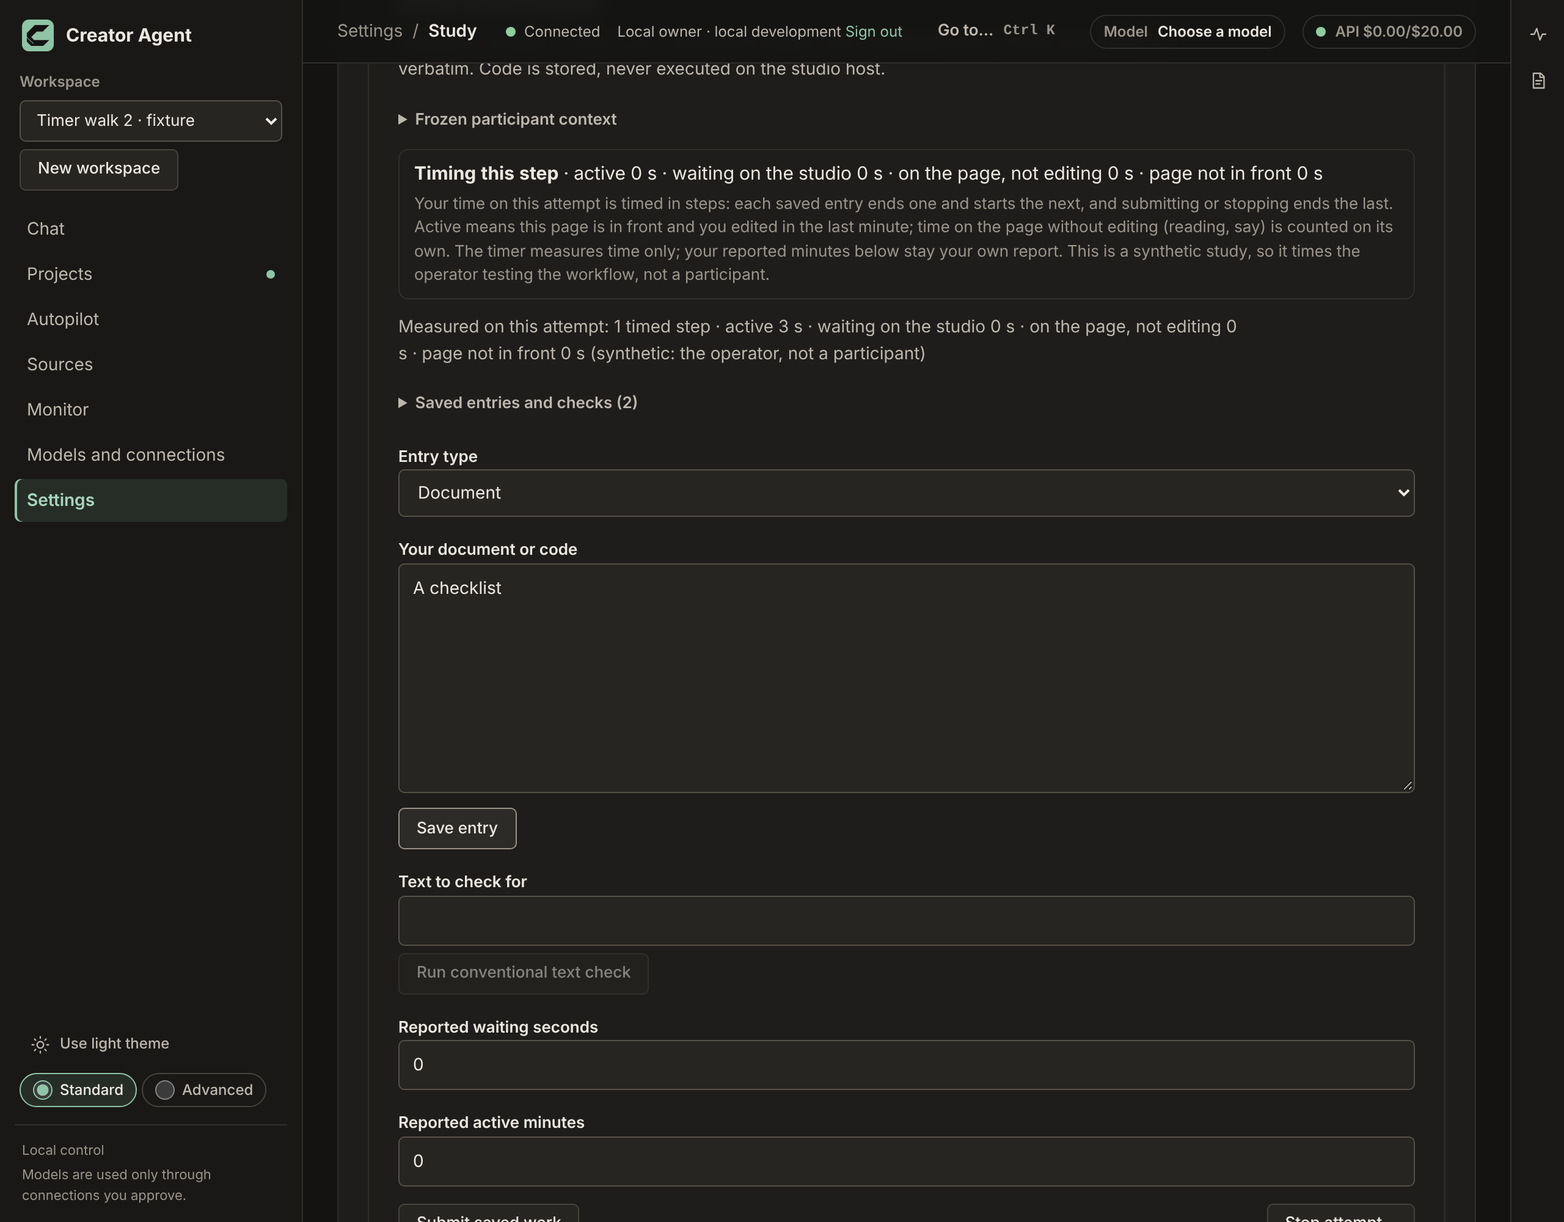
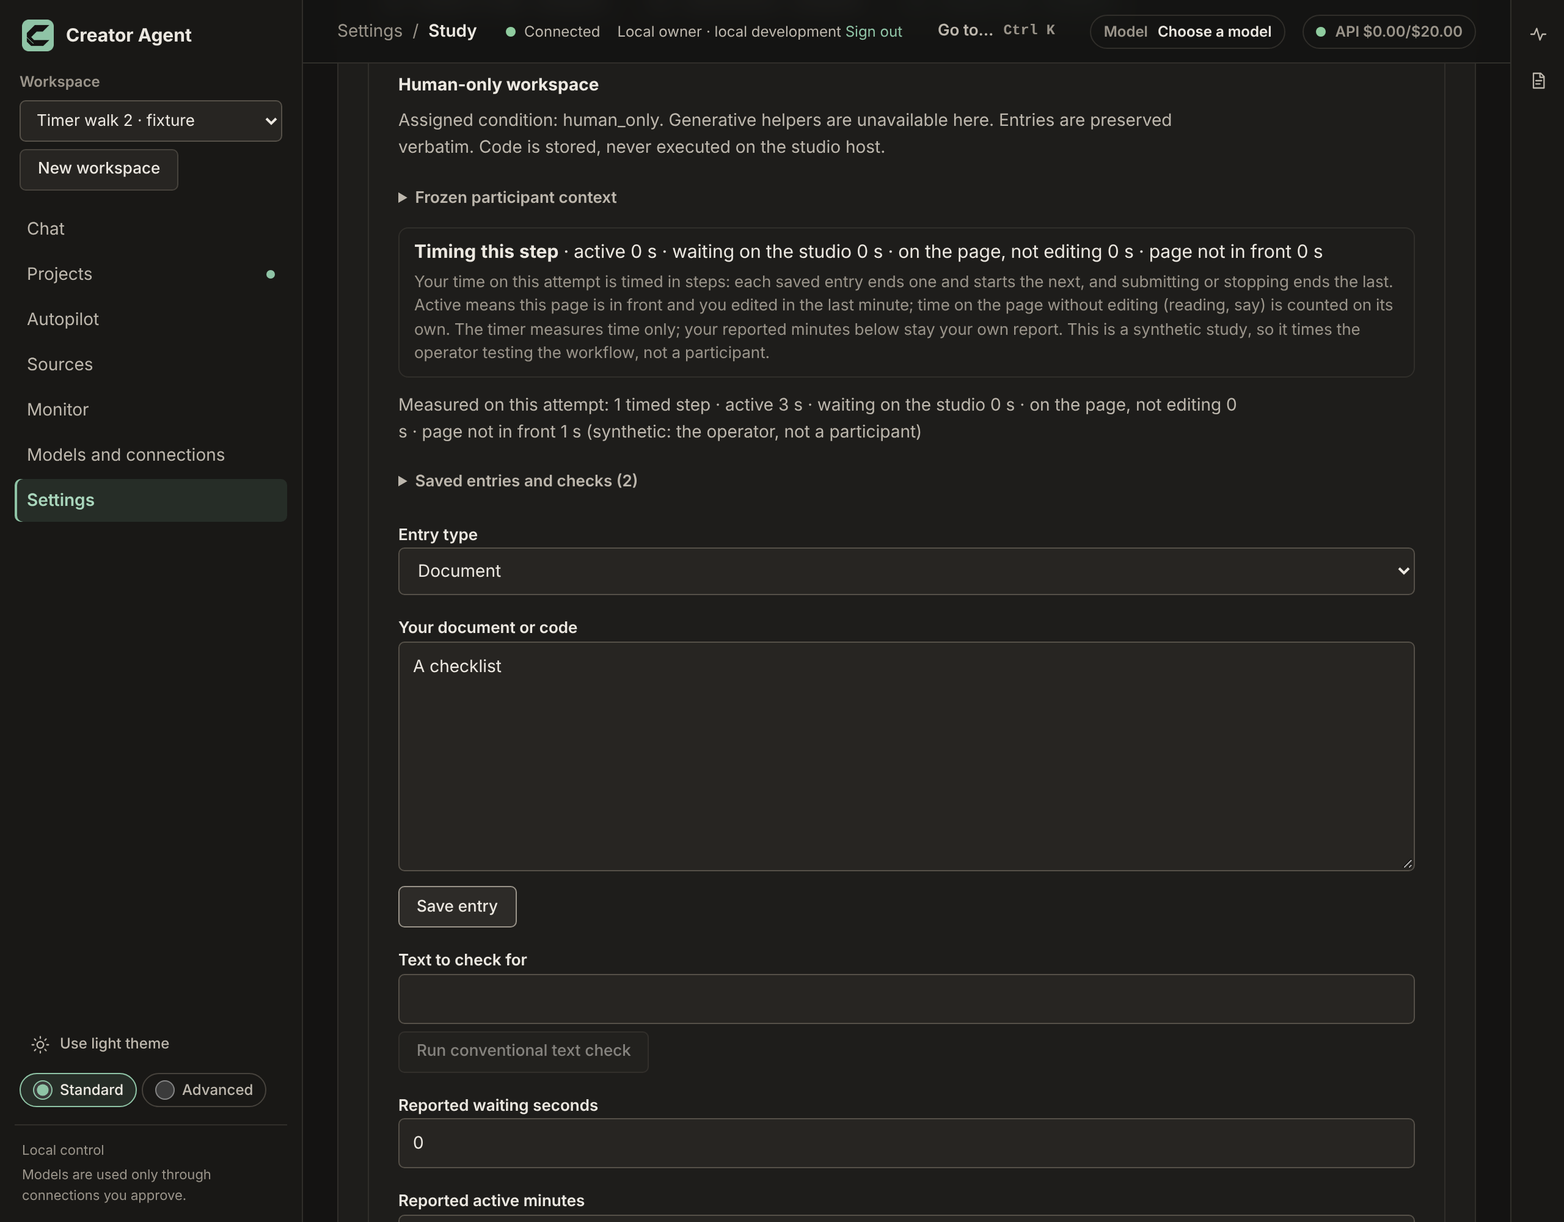
Fix re-review of #234: keep each attempt's clock while the page is open
M-3: leaving an attempt parks its step and clock (the detour counts as page not
in front) and coming back resumes it, so nothing measured is lost; after a reload
a new step starts and the old one stays unfinished (complete: false). Walk 14/14.
N-5, N-6: test count and analysis-plan/1 wording.

Claude-Session: https://claude.ai/code/session_01JTbuZrduuhJcZ3G7X4bkoA

diff --git a/apps/web/src/study.tsx b/apps/web/src/study.tsx
@@ -69,6 +69,11 @@ export function Studies({
   const [starting, setStarting] = useState(false);
   const [effortSteps, setEffortSteps] = useState<StudyEffortStep[]>([]);
   const clock = useRef<EffortClock | null>(null);
+  // Review M-3: steps of attempts the person left while the page stayed open, with their clocks
+  // still running (the time away counts as "page not in front"), by attempt id.
+  const parked = useRef(
+    new Map<string, { step: StudyEffortStep; clock: EffortClock }>(),
+  );
   const attemptPanel = useRef<HTMLDivElement | null>(null);
   const [, setTick] = useState(0);
   const timing = step !== null;
@@ -111,6 +116,11 @@ export function Studies({
   useEffect(() => {
     setSelected('');
     picked.current = false;
+    // Another workspace's attempts are not timed here; their open steps stay unfinished.
+    parked.current.clear();
+    clock.current = null;
+    stepRef.current = null;
+    setStep(null);
     setAttempt(null);
     setAttempts([]);
     setContext(null);
@@ -150,6 +160,19 @@ export function Studies({
     }
   }
   function stopTiming() {
+    if (stepRef.current) parked.current.delete(stepRef.current.attempt_id);
+    clock.current = null;
+    stepRef.current = null;
+    setStep(null);
+  }
+  /** Leaves the running step for another attempt or study; its clock keeps counting, as away. */
+  function parkTiming() {
+    const s = stepRef.current;
+    const c = clock.current;
+    if (s && c) {
+      c.visibility(performance.now(), false);
+      parked.current.set(s.attempt_id, { step: s, clock: c });
+    }
     clock.current = null;
     stepRef.current = null;
     setStep(null);
@@ -252,7 +275,7 @@ export function Studies({
   }
   async function openStudy(id: string) {
     setSelected(id);
-    stopTiming();
+    parkTiming();
     setAttempt(null);
     setContext(null);
     if (!id) {
@@ -266,7 +289,7 @@ export function Studies({
     // Review M-2: a second click on the attempt being timed keeps its step running.
     const same = stepRef.current?.attempt_id === a.id;
     if (!same) {
-      stopTiming();
+      parkTiming();
       setEffortSteps([]);
     }
     setEntries(
@@ -279,17 +302,27 @@ export function Studies({
     setContext(
       await api(z.unknown(), `${base}/study-attempts/${a.id}/context`),
     );
-    const steps = a.condition !== 'autonomous' ? await loadEffort(a.id) : [];
-    // ADR-0129: opening the attempt times it. Coming back to it (from another attempt or after
-    // a reload) continues its open step rather than leaving it unfinished. If a new step can't
-    // start (past the time cap, say), the readout says the timer is not running and offers Start.
+    if (a.condition !== 'autonomous') await loadEffort(a.id);
+    // ADR-0129: opening the attempt times it. Coming back to it while the page stayed open
+    // resumes its kept clock, so nothing measured is lost. After a reload there is no clock, so a
+    // new step starts and the old one stays unfinished. If a new step can't start (past the
+    // time cap, say), the readout says the timer is not running and offers Start.
     const plan = stepOnOpen({
       timed: timedFor(a),
       running: stepRef.current,
       attemptId: a.id,
-      steps,
+      parked: parked.current.has(a.id),
     });
-    if (plan.kind === 'continue') runStep(plan.step as StudyEffortStep);
+    const kept = parked.current.get(a.id);
+    if (plan.kind === 'resume' && kept) {
+      parked.current.delete(a.id);
+      const now = performance.now();
+      kept.clock.visibility(now, document.visibilityState === 'visible');
+      kept.clock.focus(now, document.hasFocus());
+      clock.current = kept.clock;
+      stepRef.current = kept.step;
+      setStep(kept.step);
+    }
     if (plan.kind === 'start') await startStep(a).catch(() => undefined);
   }
   async function write(action: string, body: unknown) {

diff --git a/tests/src/study-effort.test.ts b/tests/src/study-effort.test.ts
@@ -43,13 +43,8 @@ type TimerModule = {
     timed: boolean;
     running: { attempt_id: string } | null;
     attemptId: string;
-    steps: {
-      id: string;
-      attempt_id: string;
-      step: string;
-      measured: unknown;
-    }[];
-  }): { kind: string; step?: { id: string } };
+    parked: boolean;
+  }): { kind: string };
 };
 
 test('effort clock: active needs a visible, focused page and a recent edit; waiting needs a request in flight', async () => {
@@ -670,42 +665,37 @@ test('ADR-0129 review: the page keeps the step on a record refusal and keeps or 
     ),
     'stop',
   );
-  // M-2: opening the attempt being timed keeps its step; coming back continues the newest open
-  // attempt step; otherwise a new step starts; nobody else is timed.
-  const step = (id: string, over: Record<string, unknown> = {}) => ({
-    id,
-    attempt_id: 'att',
-    step: 'attempt',
-    measured: null,
-    ...over,
-  });
+  // M-2, M-3: opening the attempt being timed keeps its step; coming back to one the page left
+  // resumes its kept clock; after a reload (no kept clock) a new step starts; nobody else is
+  // timed.
   const open = (o: Partial<Parameters<TimerModule['stepOnOpen']>[0]>) =>
     stepOnOpen({
       timed: true,
       running: null,
       attemptId: 'att',
-      steps: [],
+      parked: false,
       ...o,
-    });
-  assert.equal(open({ timed: false }).kind, 'none');
-  assert.equal(open({}).kind, 'start');
+    }).kind;
+  assert.equal(open({ timed: false, parked: true }), 'none');
+  assert.equal(open({}), 'start');
+  assert.equal(open({ running: { attempt_id: 'att' } }), 'keep');
   assert.equal(
-    open({ running: { attempt_id: 'att' }, steps: [step('s1')] }).kind,
-    'keep',
+    open({ running: { attempt_id: 'other' }, parked: true }),
+    'resume',
   );
-  const back = open({
-    running: { attempt_id: 'other' },
-    steps: [step('s0', { measured: {} }), step('s1')],
+  assert.equal(open({ running: { attempt_id: 'other' } }), 'start');
+  // M-3: a clock kept while the person was on another attempt counts that time as away, so the
+  // step's totals still cover all of it.
+  const { EffortClock } = (await loadWeb('effort-timer.ts')) as TimerModule;
+  const kept = new EffortClock(0, { visible: true, focused: true }, 60_000);
+  kept.edited(0);
+  kept.visibility(6_000, false); // left for another attempt after 6 s of typing
+  kept.visibility(10_000, true); // came back
+  const t = kept.totals(12_000);
+  assert.deepEqual(t, {
+    active_ms: 8_000,
+    wait_ms: 0,
+    idle_ms: 0,
+    away_ms: 4_000,
   });
-  assert.equal(back.kind, 'continue');
-  assert.equal(back.step?.id, 's1');
-  // The newest step ended, or was started at the intervention form under ADR-0122: start anew.
-  assert.equal(
-    open({ steps: [step('s1'), step('s2', { measured: {} })] }).kind,
-    'start',
-  );
-  assert.equal(
-    open({ steps: [step('s1', { step: 'intervention' })] }).kind,
-    'start',
-  );
 });

diff --git a/apps/web/src/effort-timer.ts b/apps/web/src/effort-timer.ts
@@ -109,35 +109,22 @@ export function afterRefusal(
   return errorText.includes(marker) ? 'stop' : 'keep';
 }
 
-type OpenStep = {
-  id: string;
-  attempt_id: string;
-  step: string;
-  measured: unknown;
-};
 /**
- * ADR-0129 review M-2: what opening an attempt does to the step timer.
+ * ADR-0129 reviews M-2 and M-3: what opening an attempt does to the step timer.
  * - keep: this attempt's step is already running on the page (a second click on it);
- * - continue: the attempt's newest step was started on the attempt and never ended (the person
- *   came back from another attempt or reloaded), so it carries on instead of being left open;
- * - start: a new step;
+ * - resume: the page timed this attempt earlier and left it for another one; its clock was kept
+ *   and counted the time away as "page not in front", so nothing measured is lost;
+ * - start: a new step (after a reload the page has no clock for an open step, which then stays
+ *   unfinished, so the attempt honestly reads `complete: false`);
  * - none: the person is not timed here.
  */
 export function stepOnOpen(s: {
   timed: boolean;
   running: { attempt_id: string } | null;
   attemptId: string;
-  steps: readonly OpenStep[];
-}): { kind: 'keep' | 'start' | 'none' } | { kind: 'continue'; step: OpenStep } {
+  parked: boolean;
+}): { kind: 'keep' | 'resume' | 'start' | 'none' } {
   if (!s.timed) return { kind: 'none' };
   if (s.running?.attempt_id === s.attemptId) return { kind: 'keep' };
-  const newest = s.steps.at(-1);
-  if (
-    newest &&
-    newest.attempt_id === s.attemptId &&
-    newest.step === 'attempt' &&
-    newest.measured === null
-  )
-    return { kind: 'continue', step: newest };
-  return { kind: 'start' };
+  return { kind: s.parked ? 'resume' : 'start' };
 }

diff --git a/tracking/DECISIONS.md b/tracking/DECISIONS.md
@@ -11,9 +11,9 @@ Follow-ups to ADR-0122 (F13), whose "Not covered" named both: human-only and fin
 - **Analysis** (`analysis/2`, see the amendment). `human_effort_and_latency` gains, per group, `measured_active_minutes`, `measured_studio_wait_seconds`, `measured_on_page_not_editing_minutes`, `measured_page_not_in_front_minutes`, `measured_steps`, `measured_unfinished_steps`, `measured_complete_attempts`, `measured_untimed_attempts` and `measured_subject` (`assigned_participant`, `synthetic_operator_not_participant`, `mixed` or null), read from the raw exports by attempt id. The reported columns are unchanged and never replaced; nothing is imputed for an untimed attempt; older exports (no `measured_effort`, or no `ended_by`) read as before. `ANALYSIS_PLAN.measured_effort` states the rule; like the rest of the plan it is an implementation default for the protocol freeze, not an owner decision.
 - **Nothing about the person.** The timer still records times only; no participant, IRB, consent or model detail is added or inferred, and a synthetic study's times stay labelled as the operator's.
 
-Not covered: time spent on the attempt outside the Study page (another app, paper) is not measured; a modified browser could still under-report within the server time; an older open step that a newer one replaced (two tabs, say) stays unfinished, and the attempt then reads `complete: false`.
+Not covered: time spent on the attempt outside the Study page (another app, paper) is not measured; a modified browser could still under-report within the server time; a step left open by a reload, a workspace change or a second tab stays unfinished, and the attempt then reads `complete: false`.
 
-**Amendment (November 17, review 1 of PR #234: 2 Medium, 3 Low, 4 nits, all fixed).** Every refusal that is about the step time only (not the participant, not this attempt's or person's step, already measured, a legacy step ended by something else, totals over the server time) ends with the sentence `STUDY_EFFORT_REFUSAL` (contracts), and the page stops the timer only then; any other refusal (a submit before an entry, the time cap) leaves the step running, since the transaction saved nothing (M-1). Opening the attempt that is already being timed keeps its step, and coming back to an attempt (from another one, or after a reload) continues its newest `attempt` step if it was never ended, with a fresh browser clock: the time away is in no bucket, so that step's `wall_ms` exceeds its measured total by the gap (M-2; `stepOnOpen` and `afterRefusal` in `effort-timer.ts`). The analysis is now `analysis/2` with plan `analysis-plan/2`, so earlier dated reports under `analysis-plan/1` stay reproducible by their version (L-1). The analysis skips attempts whose export says `condition_timed: false` (the autonomous condition), takes `measured_subject` only from timed attempts, and gives null rather than 0 for the measured times of a group with nothing timed (L-2). Tests cover both page decisions and the server's refusal wording, the walk covers a re-click and a refused submit (L-3). Nits: one effort read after a save; a step that can't restart after a save is said in the same notice; the report names `private/raw-exports` as a source of the effort table; `#recordEffort` documents that `ended_by` matches its event's kind.
+**Amendment (November 17, review 1 of PR #234: 2 Medium, 3 Low, 4 nits, all fixed).** Every refusal that is about the step time only (not the participant, not this attempt's or person's step, already measured, a legacy step ended by something else, totals over the server time) ends with the sentence `STUDY_EFFORT_REFUSAL` (contracts), and the page stops the timer only then; any other refusal (a submit before an entry, the time cap) leaves the step running, since the transaction saved nothing (M-1). Opening the attempt that is already being timed keeps its step (M-2). Re-review M-3: while the page stays open, leaving an attempt for another one (or another study) keeps that attempt's step and clock, which counts the time away as "page not in front"; coming back resumes the same clock, so the step's totals still cover its whole server time and nothing measured before the detour is lost. After a reload the page has no clock for an open step, so a new step starts and the old one stays unfinished: the attempt honestly reads `complete: false` (`stepOnOpen` and `afterRefusal` in `effort-timer.ts`). Changing workspace drops the kept clocks (those steps stay unfinished). The analysis is now `analysis/2` with plan `analysis-plan/2`, so earlier dated reports under `analysis-plan/1` stay identifiable by their version; reproduce one with the commit that made it (L-1). The analysis skips attempts whose export says `condition_timed: false` (the autonomous condition), takes `measured_subject` only from timed attempts, and gives null rather than 0 for the measured times of a group with nothing timed (L-2). Tests cover both page decisions and the server's refusal wording, the walk covers a re-click and a refused submit (L-3). Nits: one effort read after a save; a step that can't restart after a save is said in the same notice; the report names `private/raw-exports` as a source of the effort table; `#recordEffort` documents that `ended_by` matches its event's kind.
 
 ## ADR-0126 — Source freshness on Decide: last-checked times, passage checks after a refetch, and a fetch-only recheck (November 16, 2026; no migration)
 

diff --git a/tracking/SESSION_HANDOFF.md b/tracking/SESSION_HANDOFF.md
@@ -2,7 +2,7 @@
 
 ## November 17 handoff — study effort timer follow-ups (ADR-0129, migration 78)
 
-Branch `claude/project-thread-9saclr` from main 317c4bd8. Migration 78 `study_effort_attempt_steps` (step `attempt`; measures `ended_by`). Contracts `study.ts`: `STUDY_EFFORT_STEP_KINDS`, `STUDY_EFFORT_ENDS`, `StudyEffortEnd`, `StudyArtifactRequestSchema`, `FinishStudyAttemptRequestSchema`; `StudyEffortStepSchema.step` is an enum and `measured.ended_by` is new. DB `study-store.ts`: `startEffortStep` refuses only the autonomous condition and inserts `attempt`; `writeAttempt` records effort on interventions, artifacts and finish (`#recordEffort(..., endedBy)`); `measuredEffortSummary` builds the export block. Domain `analysis.ts`: `MeasuredEffortSchema` (optional on export attempts), measured columns in `effortTable`, `ANALYSIS_PLAN.measured_effort`. Web `study.tsx`: `timedFor`, `startStep(target)`, `stepEffort`, `writeEnding`; the attempt opens with a step; `InterventionEditor` lost its timer props. Walk script `tracking/evidence/study-effort-attempt-steps/walk.mjs` (the ADR-0122 walk describes the old intervention-form start and is kept as dated evidence). Review 1 (`/mnt/project-files/reviews/PR234_STUDY_EFFORT_TIMING_REVIEW_2026-11-17.md`, 2 M, 3 L, 4 nits) fixed: `STUDY_EFFORT_REFUSAL` (contracts) on every timing refusal via `effortFail`; web `afterRefusal`, `stepOnOpen` (effort-timer.ts), `runStep`, `nextStep`; analysis `analysis/2`, `analysis-plan/2`, `condition_timed` skip and null measured columns. Next: re-review. Next free numbers: ADR-0130, migration 79 (75–77 reserved).
+Branch `claude/project-thread-9saclr` from main 317c4bd8. Migration 78 `study_effort_attempt_steps` (step `attempt`; measures `ended_by`). Contracts `study.ts`: `STUDY_EFFORT_STEP_KINDS`, `STUDY_EFFORT_ENDS`, `StudyEffortEnd`, `StudyArtifactRequestSchema`, `FinishStudyAttemptRequestSchema`; `StudyEffortStepSchema.step` is an enum and `measured.ended_by` is new. DB `study-store.ts`: `startEffortStep` refuses only the autonomous condition and inserts `attempt`; `writeAttempt` records effort on interventions, artifacts and finish (`#recordEffort(..., endedBy)`); `measuredEffortSummary` builds the export block. Domain `analysis.ts`: `MeasuredEffortSchema` (optional on export attempts), measured columns in `effortTable`, `ANALYSIS_PLAN.measured_effort`. Web `study.tsx`: `timedFor`, `startStep(target)`, `stepEffort`, `writeEnding`; the attempt opens with a step; `InterventionEditor` lost its timer props. Walk script `tracking/evidence/study-effort-attempt-steps/walk.mjs` (the ADR-0122 walk describes the old intervention-form start and is kept as dated evidence). Review 1 (`/mnt/project-files/reviews/PR234_STUDY_EFFORT_TIMING_REVIEW_2026-11-17.md`, 2 M, 3 L, 4 nits) fixed: `STUDY_EFFORT_REFUSAL` (contracts) on every timing refusal via `effortFail`; web `afterRefusal`, `stepOnOpen` (effort-timer.ts), `runStep`, `nextStep`; analysis `analysis/2`, `analysis-plan/2`, `condition_timed` skip and null measured columns. Re-review (M-3, N-5, N-6) fixed: `parked` map of kept clocks in `study.tsx` (`parkTiming`), `stepOnOpen` returns keep/resume/start/none. Next: final check. Next free numbers: ADR-0130, migration 79 (75–77 reserved).
 
 ## November 16 handoff — F12 term help
 

diff --git a/tracking/BUILD_STATUS.md b/tracking/BUILD_STATUS.md
@@ -4,7 +4,7 @@
 
 What now works: on the Study page the assigned participant's time is timed on human-only attempts as well as assisted ones, from opening the attempt to the finish. Each saved intervention or entry ends a step and starts the next; Submit saved work or Stop attempt ends the last step, so the finish is measured too. The readout sits at the top of the attempt panel. The autonomous condition is not timed. The export's `measured_effort` adds totals, a split by what ended each step, `finish_timed` and `complete`; the analysis's human effort table now reads the measured times beside the reported ones (reported figures unchanged, nothing imputed).
 
-Checked in the cloud container on throwaway PostgreSQL 16 databases: `pnpm typecheck` and `pnpm format:check` pass; `tests/src/study-effort.test.ts` 5/5 (new: human-only entry and finish steps, owner refused, overrun refuses the finish and saves nothing, legacy intervention step ended only by an intervention, unknown `ended_by` refused by the database, export totals and `complete`) and `tests/src/analysis.test.ts` 10/10 (new: measured columns from exports, older exports without `ended_by`, reported columns unchanged, autonomous arm untimed). Review 1 fixes: a refused save keeps the step unless the refusal is about the timing; re-opening or returning to an attempt keeps or continues its step; the analysis is `analysis/2` and leaves the autonomous arm's measured columns null. Walk on a throwaway studio (ports 5183/4330/4340, synthetic fixture study, $0): 13 of 13 checks pass (`tracking/evidence/study-effort-attempt-steps/`). Full `pnpm test:db` after the review fixes: 1479 tests, 1445 pass, 29 skipped, the 5 known PowerShell-wrapper failures (438, 456, 845, 849, 944).
+Checked in the cloud container on throwaway PostgreSQL 16 databases: `pnpm typecheck` and `pnpm format:check` pass; `tests/src/study-effort.test.ts` 6/6 (new: human-only entry and finish steps, owner refused, overrun refuses the finish and saves nothing, legacy intervention step ended only by an intervention, unknown `ended_by` refused by the database, export totals and `complete`) and `tests/src/analysis.test.ts` 10/10 (new: measured columns from exports, older exports without `ended_by`, reported columns unchanged, autonomous arm untimed). Review fixes: a refused save keeps the step unless the refusal is about the timing; re-opening an attempt keeps its step, and returning to one while the page stays open resumes its kept clock (the detour counts as page not in front), while a reload starts a new step; the analysis is `analysis/2` and leaves the autonomous arm's measured columns null. Walk on a throwaway studio (ports 5183/4330/4340, synthetic fixture study, $0): 14 of 14 checks pass after review 2 (`tracking/evidence/study-effort-attempt-steps/`). Full `pnpm test:db` after the review fixes: 1479 tests, 1445 pass, 29 skipped, the 5 known PowerShell-wrapper failures (438, 456, 845, 849, 944).
 
 ## November 16 update — F12 term help (no migration or ADR)
 

diff --git a/tracking/evidence/study-effort-attempt-steps/README.md b/tracking/evidence/study-effort-attempt-steps/README.md
@@ -3,8 +3,8 @@
 Cloud container, throwaway PostgreSQL 16 database `creator_walk_adr0129`, review ports 5183/4330/4340
 (`../owner-actions/stack.mjs`), synthetic fixture study only, $0, no model call.
 
-`node tracking/evidence/study-effort-attempt-steps/walk.mjs <database-url> <out-dir>`: 13 of 13 checks pass (after review 1; 11 of 11 before it).
-Opening the human-only attempt starts the step timer; a second click on it keeps its one step; a submit refused for having no entry keeps the step timing (the browser logs that intended 409); typing an entry counts as active; saving the
+`node tracking/evidence/study-effort-attempt-steps/walk.mjs <database-url> <out-dir>`: 14 of 14 checks pass (after review 2; 13 of 13 after review 1, 11 of 11 before it).
+Opening the human-only attempt starts the step timer; a second click on it keeps its one step; a submit refused for having no entry keeps the step timing (the browser logs that intended 409); a detour to the assisted attempt and back keeps the step's clock (the entry step's totals cover its server time, the detour counted as away); typing an entry counts as active; saving the
 entry ends the step (the API returned `ended_by` `entry`, `active_ms` 3209, `idle_ms` 59 against a
 server `wall_ms` of 3288) and the next starts; Submit saved work ends it (`ended_by` `finish`, `wall_ms`
 1050); opening the assisted attempt starts timing before the intervention form is opened; Stop attempt
